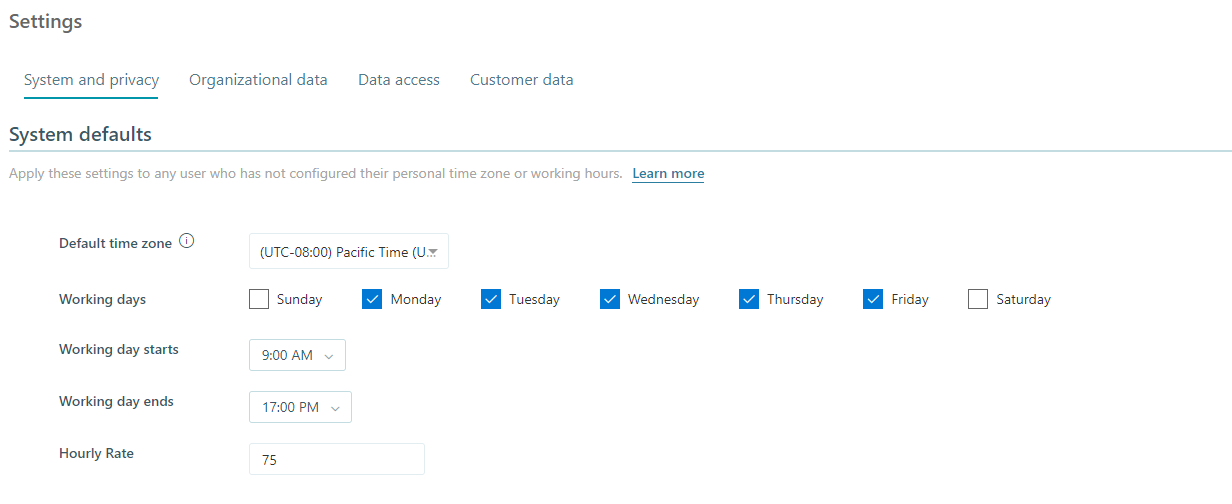
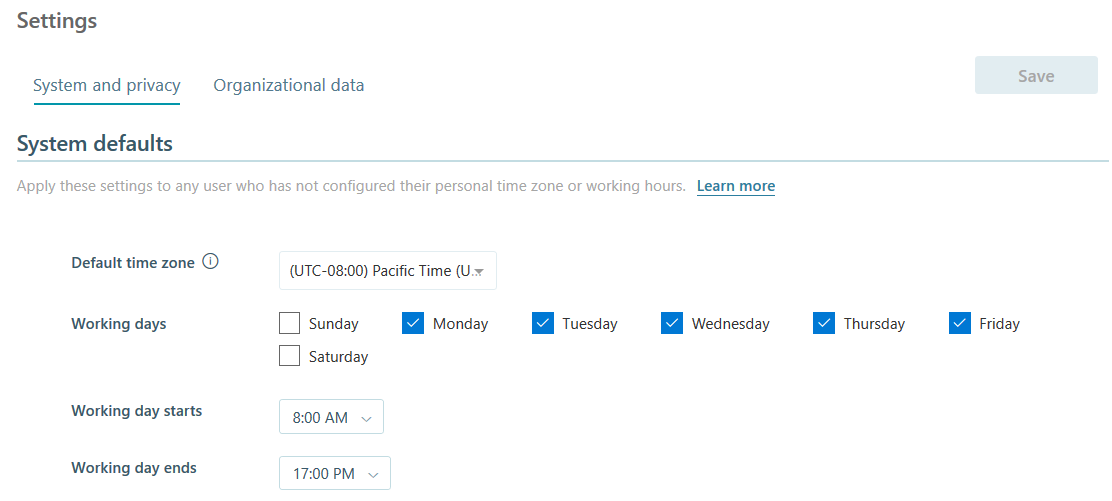
Update WpA Configure Settings
for new screenshot of working days and hours

diff --git a/WorkplaceAnalytics/Setup/Configure-wpa-settings.md b/WorkplaceAnalytics/Setup/Configure-wpa-settings.md
@@ -6,7 +6,7 @@ title: Workplace Analytics Setup -- Configure Workplace Analytics settings
 description: Describes how to configure the settings for Workplace Analytics.
 author: madehmer
 ms.author: v-midehm
-ms.date: 08/14/2018
+ms.date: 10/29/2018
 ms.topic: get-started-article
 localization_priority: normal 
 ms.prod: wpa
